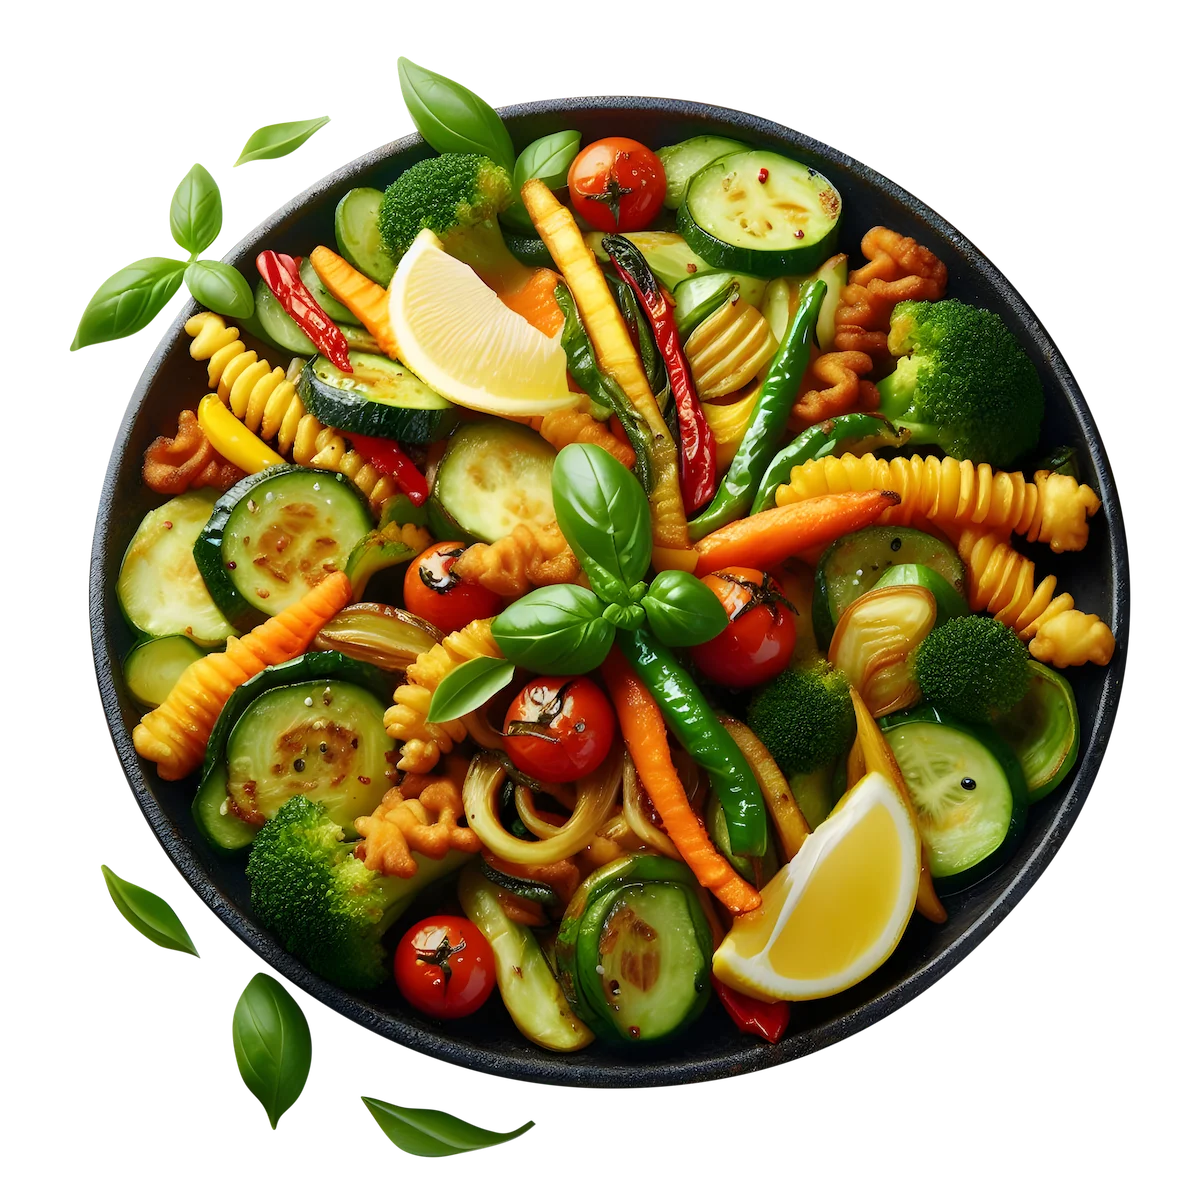
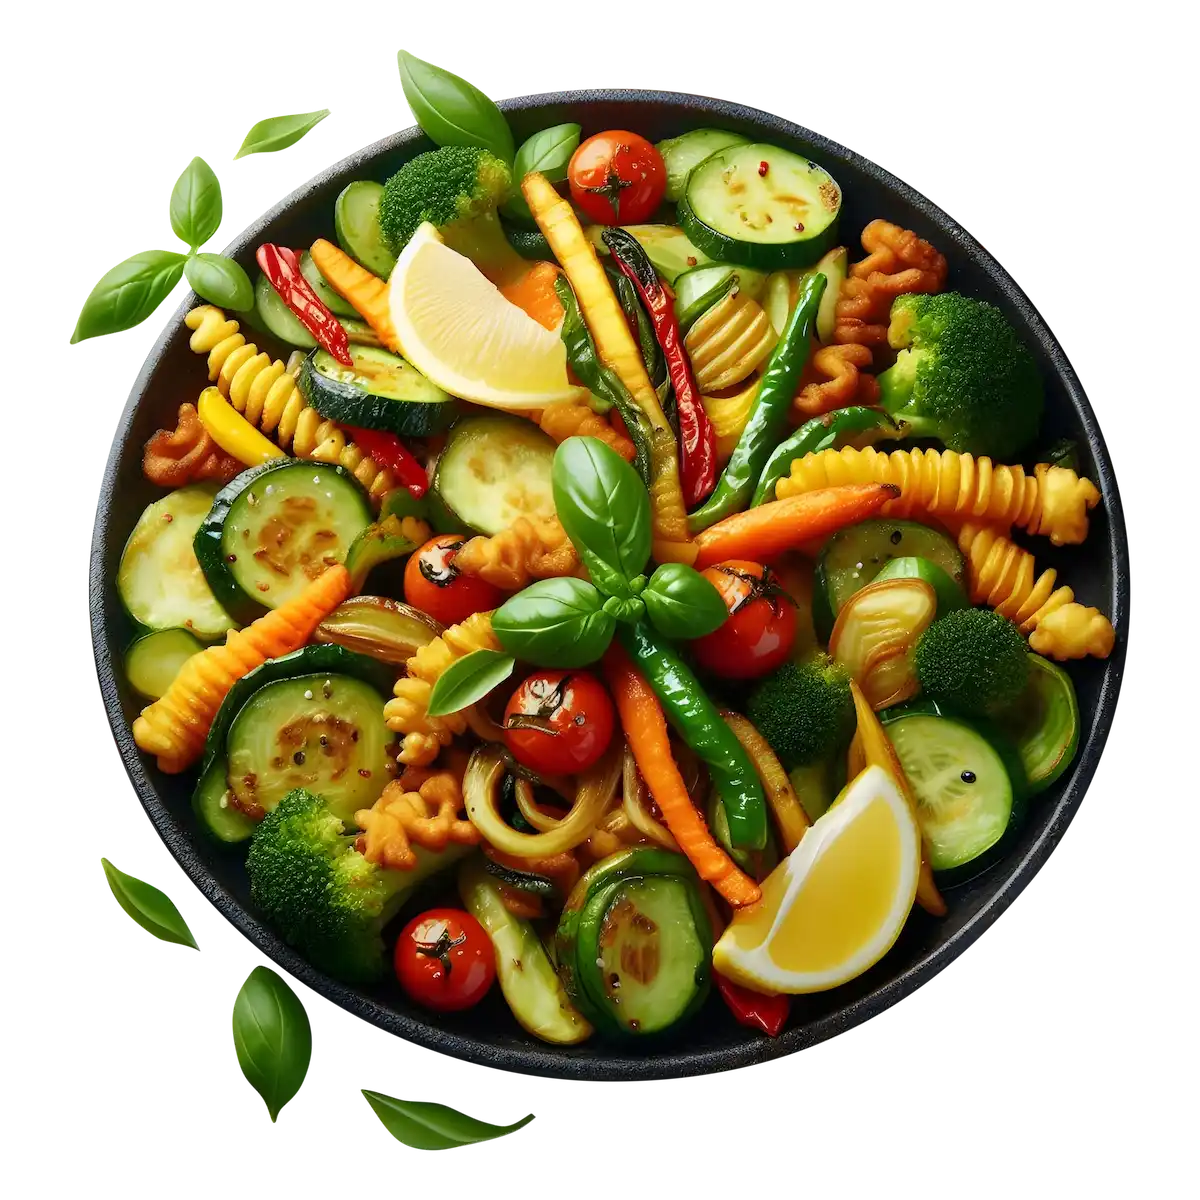
fixed weird plate animation

diff --git a/src/css/sections.scss b/src/css/sections.scss
@@ -167,7 +167,7 @@ section {
     .cw-col-5 {
         img {
             padding: 1rem;
-            padding-left: 4rem;
+            // padding-left: 4rem;
             justify-self: flex-end;
         }
     }
